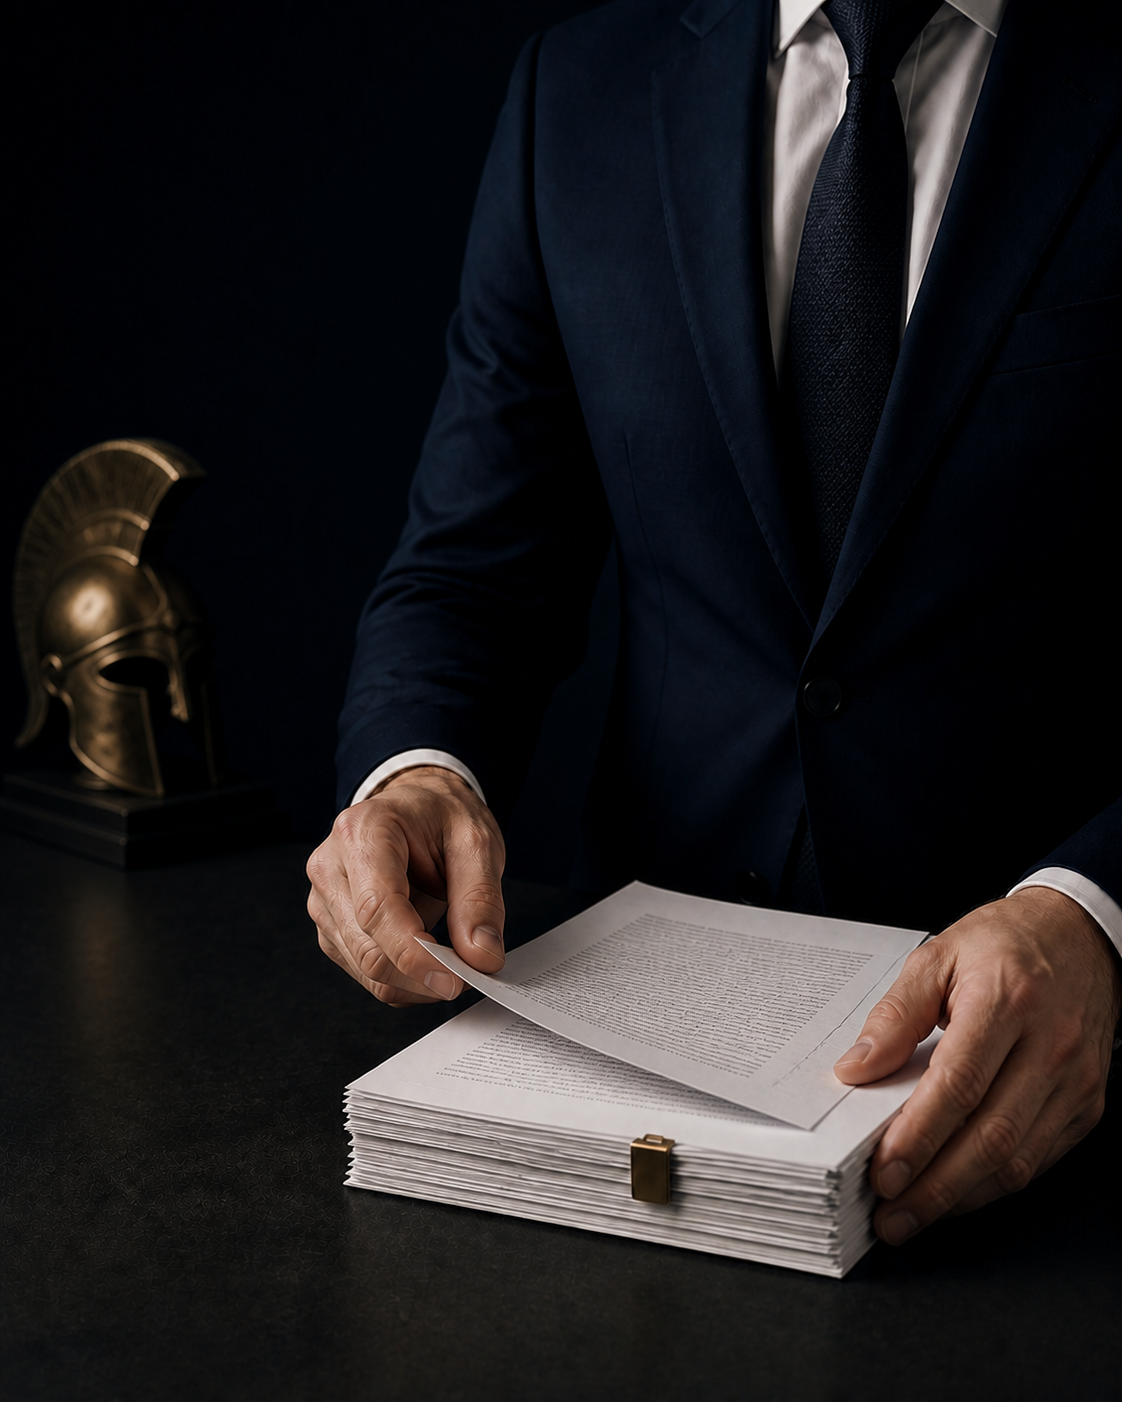
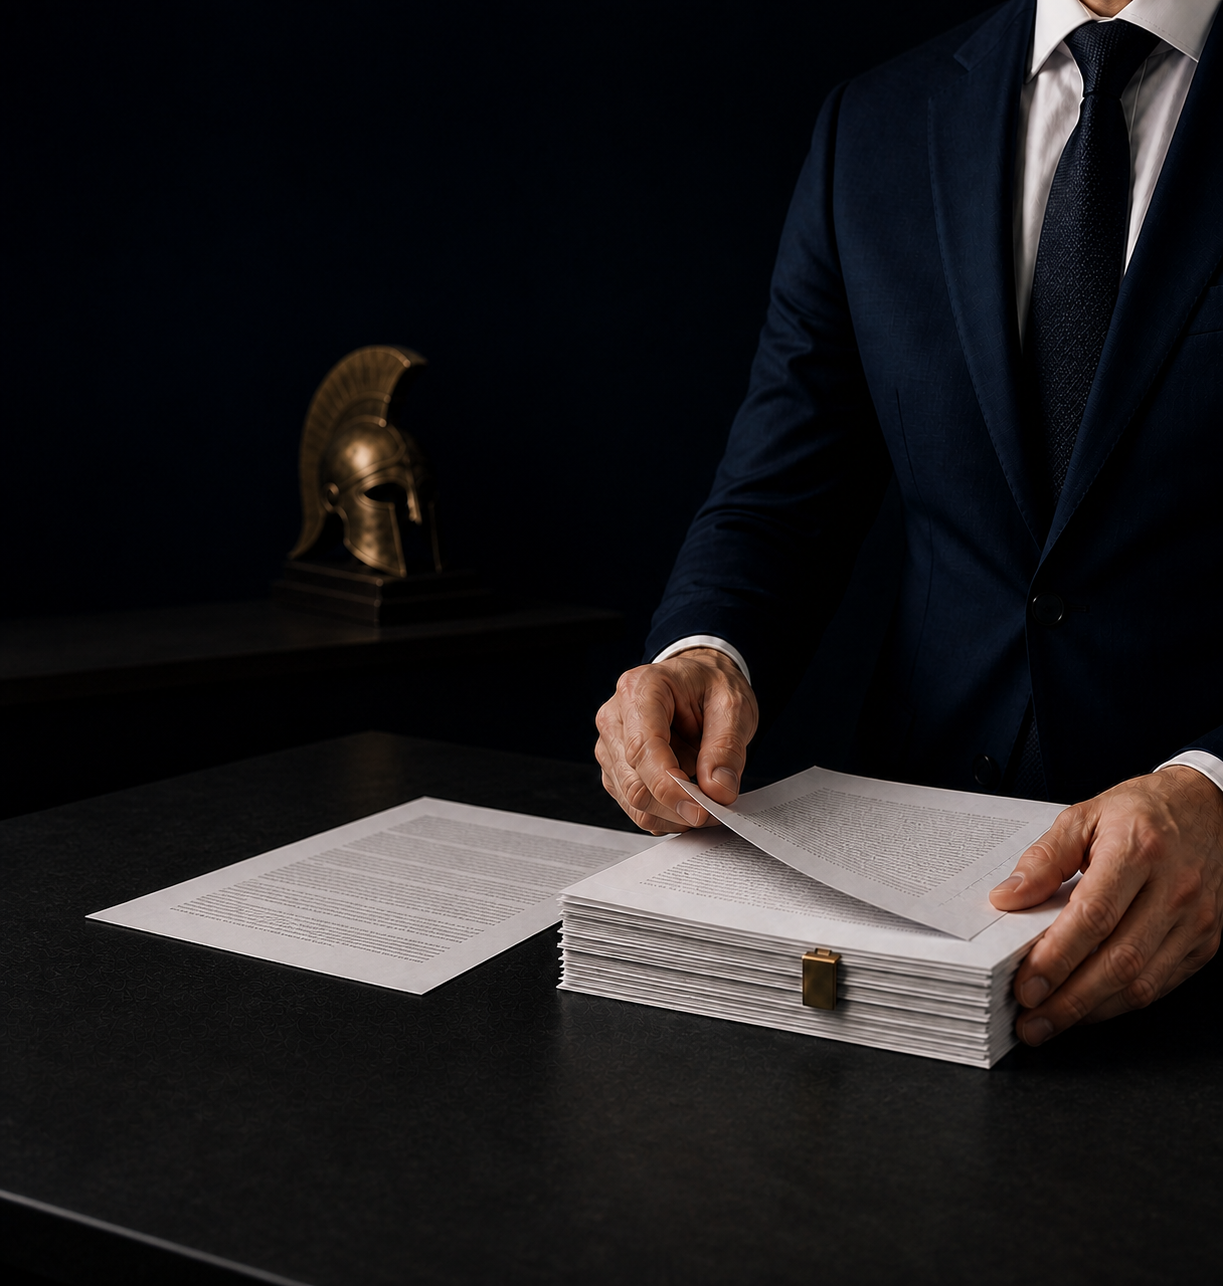
Use preferred hero composition

diff --git a/site/index.html b/site/index.html
@@ -81,7 +81,7 @@
       </div>
 
       <figure class="hero-media">
-        <img src="assets/img/centurion-documents-hero.png?v=20260807-hero-image-v3" alt="Работа с судебными документами на тёмном столе" width="1122" height="1402" fetchpriority="high" decoding="async">
+        <img src="assets/img/centurion-documents-hero.png?v=20260807-hero-image-v4" alt="Работа с судебными документами на тёмном столе" width="1223" height="1286" fetchpriority="high" decoding="async">
       </figure>
 
       <div class="hero-facts">
